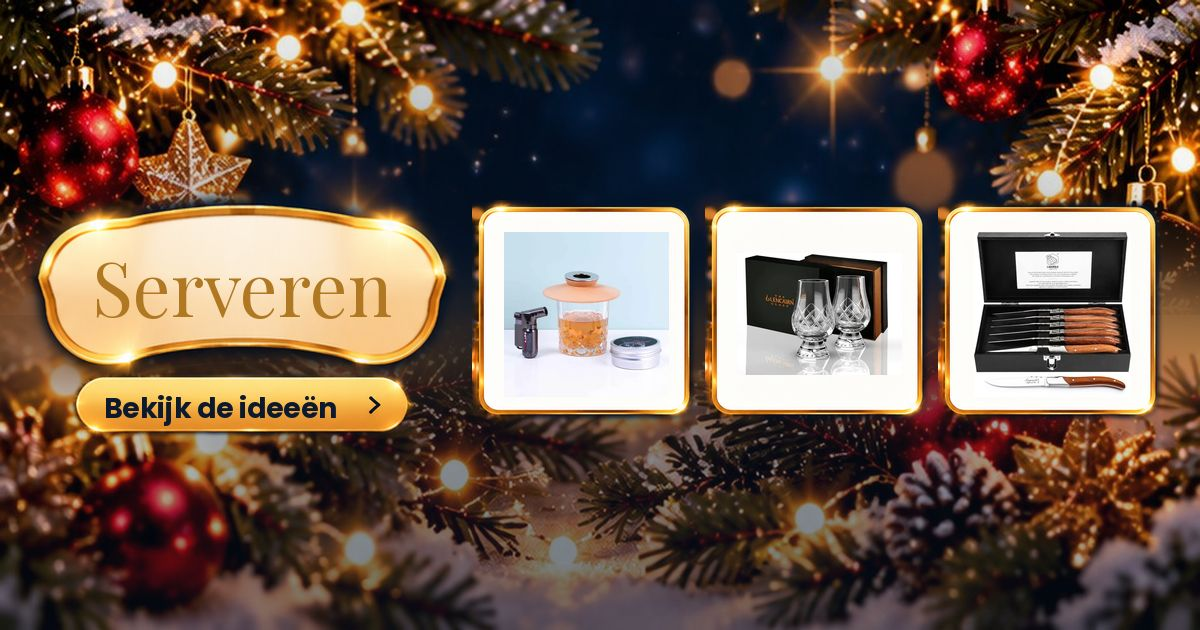
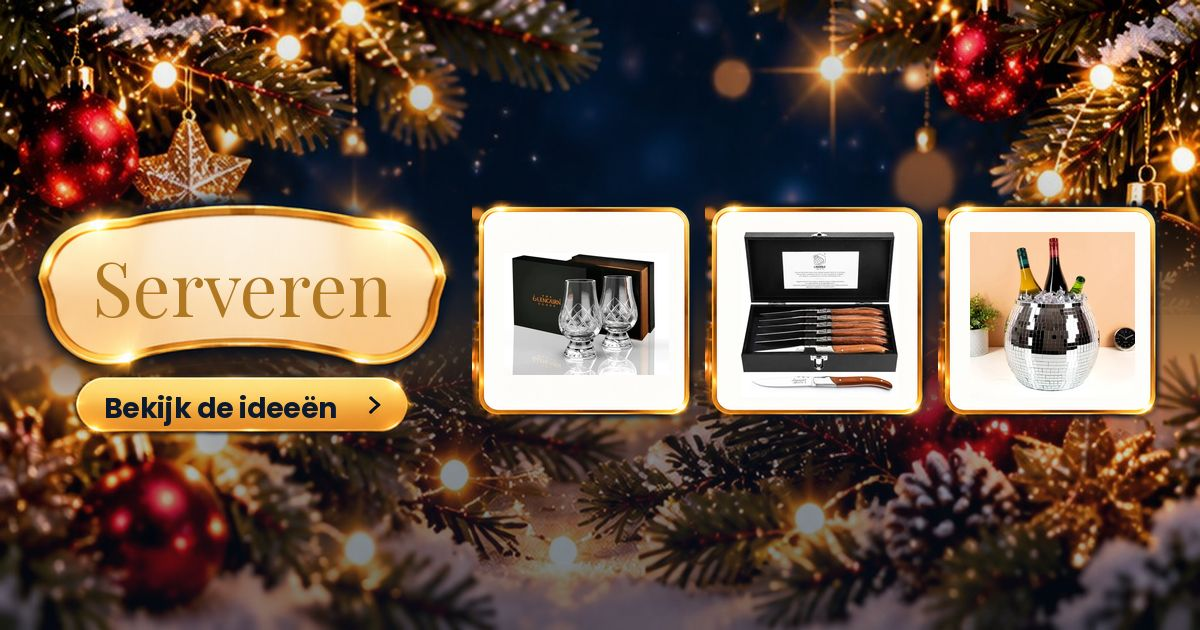
Voorbeeld: gidskaarten met feestelijk plaatje (nog niet live)
Claude-Session: https://claude.ai/code/session_01NiBAchCtfjxbcVaVGG3djL

Changed region(s): [[0.8017, 0.3619, 0.9558, 0.6333], [0.6167, 0.3619, 0.7708, 0.6333], [0.4008, 0.3619, 0.555, 0.6032]]

diff --git a/assets/css/stijl.css b/assets/css/stijl.css
@@ -839,6 +839,16 @@ body.lade-open .lade-bg { opacity: 1; pointer-events: auto; }
 .gidsbeeld img { width: 100%; height: 100%; object-fit: contain; }
 .gidskaart strong { display: block; font-size: 16px; line-height: 1.3; }
 .gidskaart small { display: block; margin-top: 4px; color: var(--tekst-2); font-size: 13px; line-height: 1.4; }
+/* Gidskaart met feestelijk plaatje */
+.gidslijst:has(.gidsbanner) { grid-template-columns: repeat(auto-fill, minmax(320px, 1fr)); }
+.sectie .gidslijst:has(.gidsbanner) { grid-template-columns: repeat(auto-fill, minmax(min(100%, 460px), 1fr)); }
+.gidsbanner { flex-direction: column; align-items: stretch; gap: 0; padding: 0; overflow: hidden; transition: transform .2s, box-shadow .2s; }
+.gidsbanner:hover { transform: translateY(-3px); box-shadow: 0 10px 26px rgba(0,0,0,.18); }
+.gidsbanner-img { display: block; width: 100%; height: auto; aspect-ratio: 800 / 420; object-fit: cover; }
+.gidskaart:not(.gidsbanner) .gidsbanner-img, .gidsbanner .gidsbeeld { display: none; }
+.gidsbanner .gidstekst { padding: 10px 14px 13px; }
+.gidsbanner strong { position: absolute; width: 1px; height: 1px; overflow: hidden; clip: rect(0 0 0 0); }
+.gidsbanner small { margin-top: 0; font-size: 14px; }
 .tekstpagina.gids { max-width: 760px; }
 .tekstpagina .klein { font-size: 13px; }
 

diff --git a/assets/js/app.js b/assets/js/app.js
@@ -1168,8 +1168,12 @@
   function gidsKaart(g) {
     /* Kaartbeeld: het product in 'beeld' (met de hand gekozen), anders het eerste product uit de gids. */
     var eerste = (g.beeld && LK.vind(g.beeld)) || g.delen[0].ids.map(function (id) { return LK.vind(id); }).filter(Boolean)[0];
-    return '<a class="gidskaart" href="/gids/' + g.slug + '">' + '<span class="gidsbeeld">' + (eerste ? LK.productBeeld(eerste) : '') + '</span>' +
-      '<span><strong>' + esc(g.titel) + '</strong><small>' + esc(g.kort) + '</small></span></a>';
+    /* Met feestelijk plaatje (images/deel/gids-<slug>.webp, gemaakt door scripts/promo/maak-deelbeelden.py).
+       Ontbreekt dat plaatje, dan valt de kaart vanzelf terug op de gewone kaart met productfoto. */
+    return '<a class="gidskaart gidsbanner" href="/gids/' + g.slug + '">' +
+      '<img class="gidsbanner-img" src="/images/deel/gids-' + g.slug + '.webp" width="800" height="420" loading="lazy" alt="" onerror="this.parentNode.classList.remove(\'gidsbanner\')">' +
+      '<span class="gidsbeeld">' + (eerste ? LK.productBeeld(eerste) : '') + '</span>' +
+      '<span class="gidstekst"><strong>' + esc(g.titel) + '</strong><small>' + esc(g.kort) + '</small></span></a>';
   }
   function gids(slug) {
     if (!slug) {

diff --git a/scripts/promo/maak-deelbeelden.py b/scripts/promo/maak-deelbeelden.py
@@ -48,8 +48,13 @@ def maak(titel, fotos, szn, uit):
     # links: titelvak + knop
     links_w = x0 - 40 - 34
     g, w = (titel, '') if len(titel) <= 18 else S.titel_split({'titel': titel})
+    # lange samengestelde woorden splitsen: 'Sinterklaascadeaus' -> goud 'Sinterklaas', rest 'cadeaus ...'
     if len(titel) > 18 and len(g) < 6:
         g, w = '', titel
+    for voor in ('Sinterklaas', 'Kerst'):
+        if g.startswith(voor) and len(g) > len(voor) + 3:
+            w = (g[len(voor):] + ' ' + w).strip()
+            g = voor
     vak = S.creme_vak(g, w, W, s, links_w, 86 * s)
     knop = S.goud_knop('Bekijk de ideeën', S.font('Bold', 28), 28, 10, pijl=True)
     tot = vak.height + knop.height - 10
@@ -58,6 +63,13 @@ def maak(titel, fotos, szn, uit):
     img.alpha_composite(vak, (int(cx - vak.width / 2), int(y)))
     img.alpha_composite(knop, (int(cx - knop.width / 2), int(y + vak.height - 10)))
     img.convert('RGB').save(uit, quality=80, optimize=True)
+
+
+CAT = {}
+for _r in open(os.path.join(REPO, 'assets', 'js', 'producten.js'), encoding='utf-8'):
+    _m = re.search(r'"id":\s*"([^"]+)".*?"cat":\s*"([^"]+)"', _r)
+    if _m:
+        CAT[_m.group(1)] = _m.group(2)
 
 
 def main():
@@ -73,16 +85,23 @@ def main():
             continue
         titel = html.unescape(re.sub(r'<[^>]+>', '', m.group(1))).strip()
         titel = re.sub(r'\s+', ' ', titel)
-        if len(titel) > 60:
+        if len(titel) > 34 and ':' in titel:
             titel = titel.split(':')[0].strip()
         srcs = []
         for s_ in re.findall(r'src="(/?images/producten/[^"]+)"', h):
             if s_ not in srcs:
                 srcs.append(s_)
+        if '/eten-drinken/' not in pad and '/dranken/' not in pad:
+            srcs = [s_ for s_ in srcs if CAT.get(re.sub(r'(-klein)?\.webp$', '', s_.split('/')[-1])) not in ('eten-drinken', 'dranken')] or srcs
         fotos = [x for x in (foto(s_) for s_ in srcs[:6]) if x is not None][:3]
         if not fotos:
             continue
-        maak(titel, fotos, szn, os.path.join(UIT, naam_voor(pad) + '.jpg'))
+        uit = os.path.join(UIT, naam_voor(pad) + '.jpg')
+        eigen = 'sint' if szn == 'kerst' and re.search(r'sinterklaas|surprise|pakjesavond', pad + ' ' + titel.lower()) else szn
+        maak(titel, fotos, eigen, uit)
+        if pad.startswith('/gids/'):
+            # lichte versie voor de gidskaarten op de site zelf
+            Image.open(uit).resize((800, 420), Image.LANCZOS).save(uit[:-4] + '.webp', quality=78, method=6)
         n += 1
     print('deelplaatjes gemaakt:', n)
 
